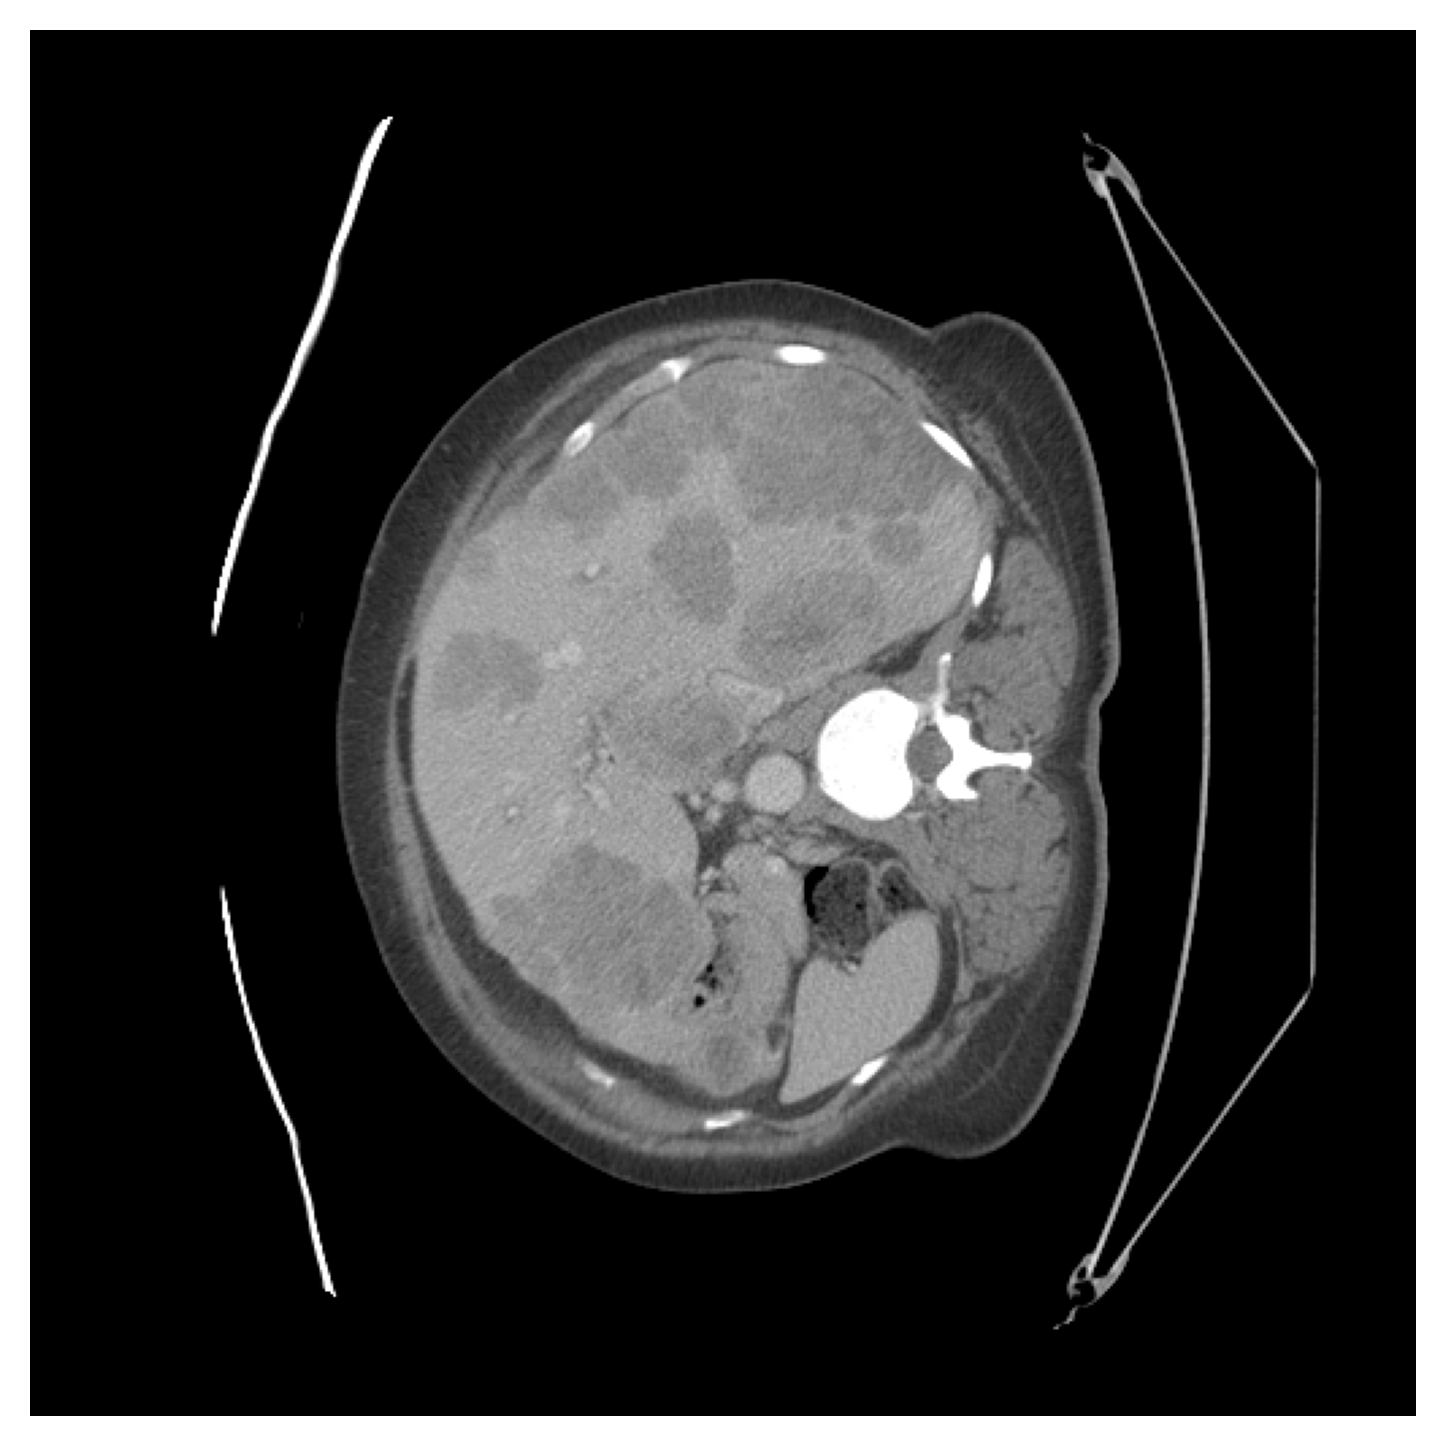
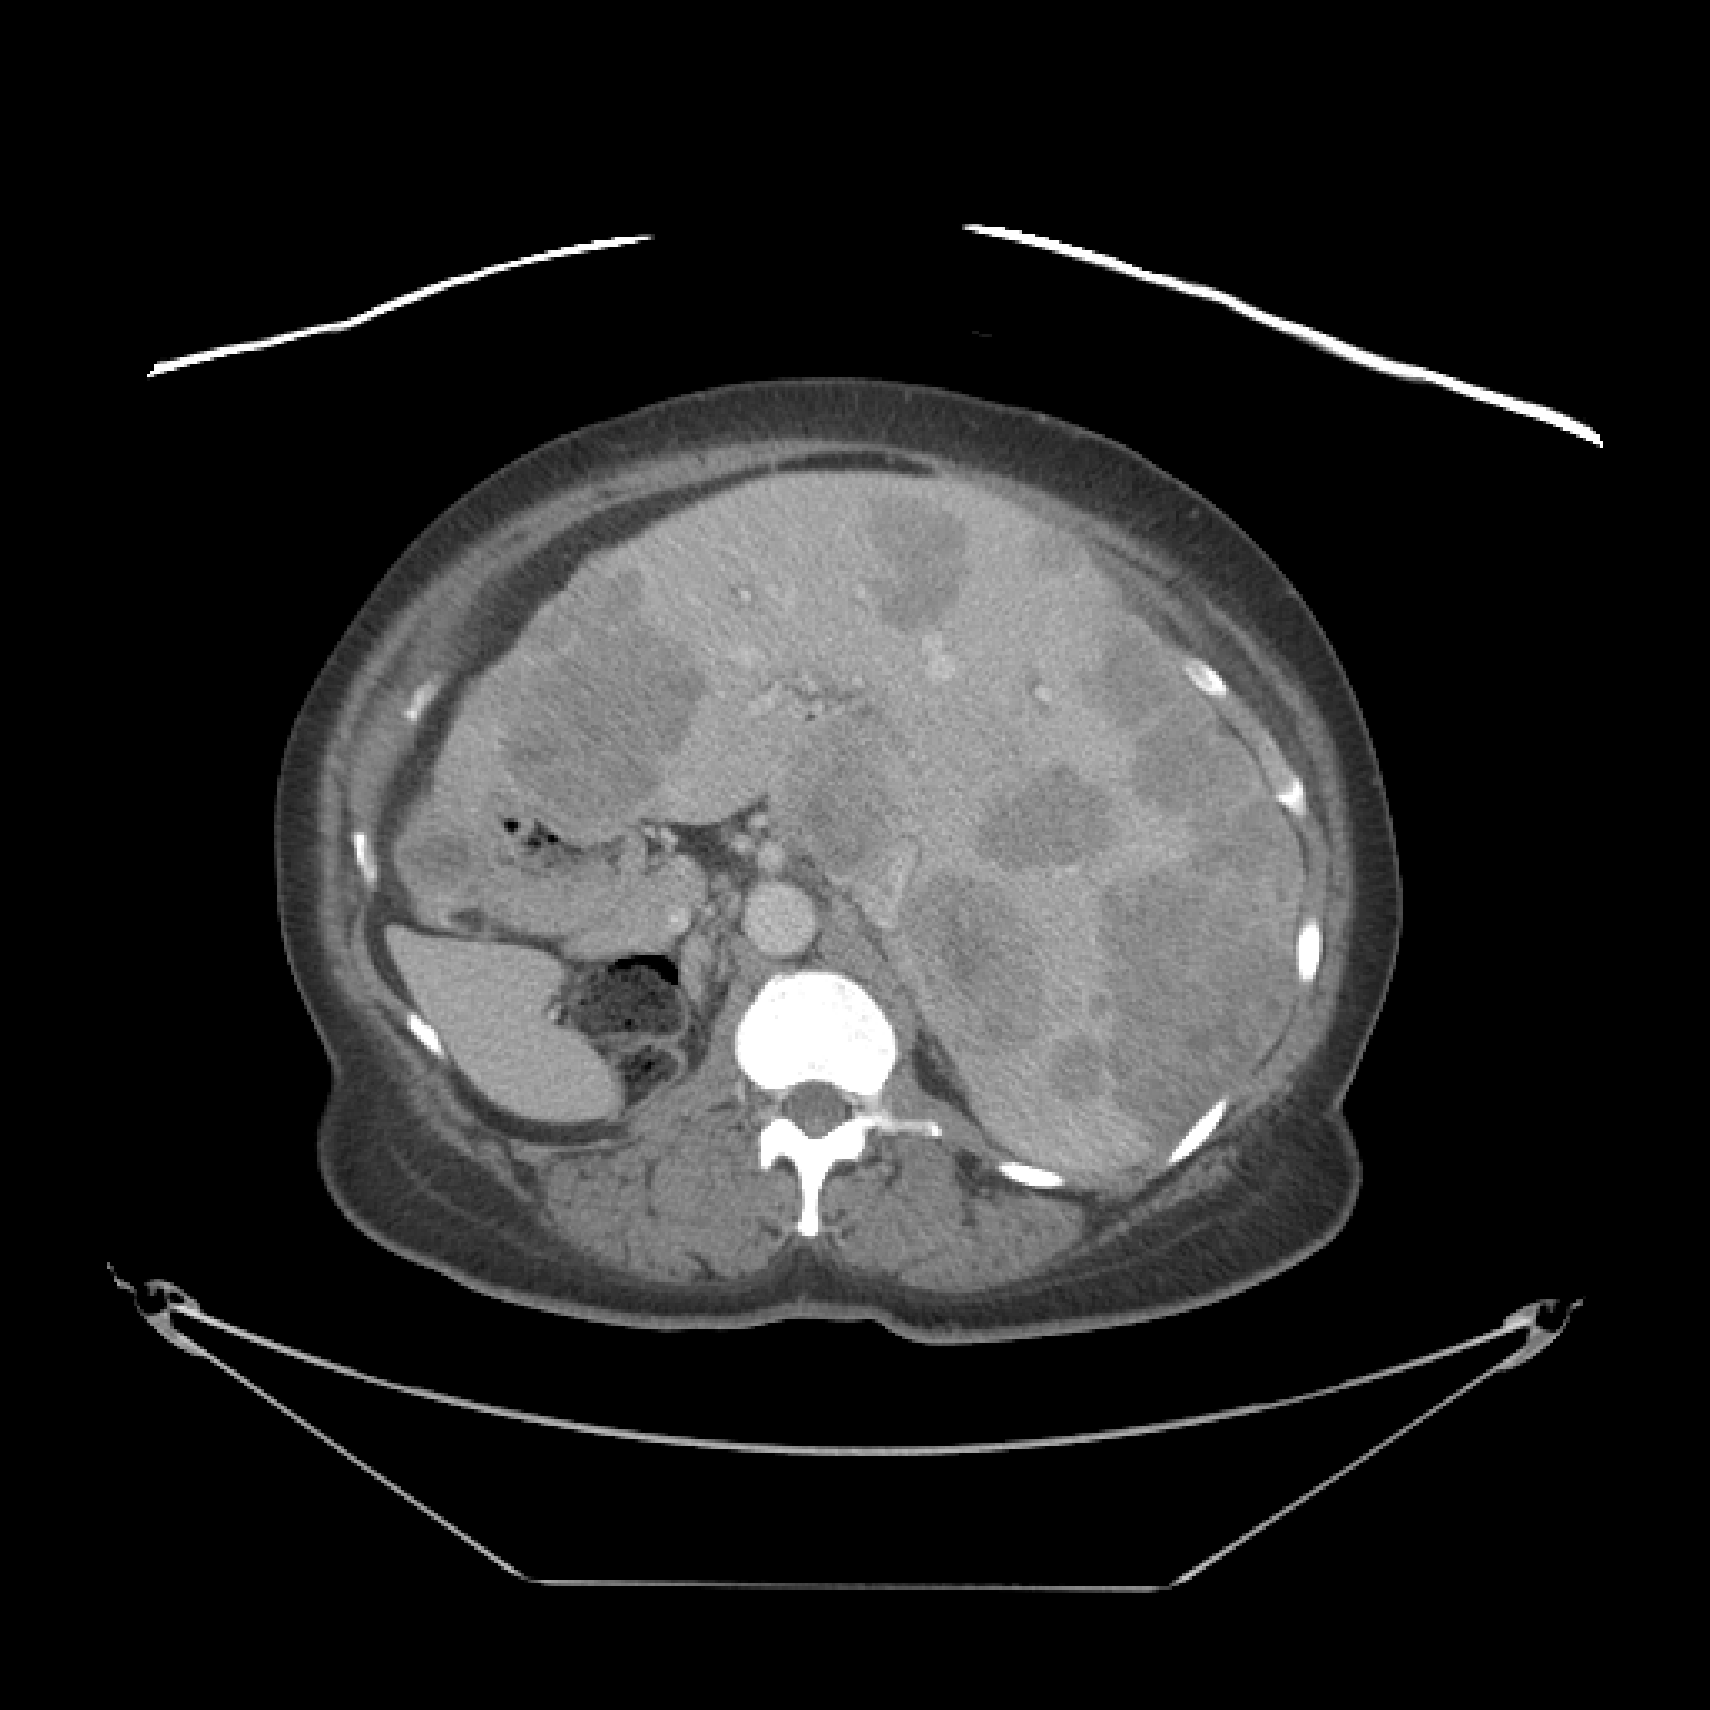
update readme demo

diff --git a/scripts/create_demo.py b/scripts/create_demo.py
@@ -9,64 +9,65 @@ mask_path = "./output_mask/RIA_17-010C_000_000070.nii.gz"
 output_dir = "demo"
 os.makedirs(output_dir, exist_ok=True)
 
-
-# Load images
 ct = nib.load(ct_path).get_fdata()
 mask = nib.load(mask_path).get_fdata()
 
-
-# Select middle axial slice
 slice_idx = ct.shape[2] // 2
 
 ct_slice = ct[:, :, slice_idx]
 mask_slice = mask[:, :, slice_idx]
 
+# ----------------------------
+# Orientation fix
+# ----------------------------
+ct_slice = np.rot90(ct_slice, k=-1)
+mask_slice = np.rot90(mask_slice, k=-1)
 
-# Normalize CT for visualization
+# ----------------------------
+# Normalize CT
+# ----------------------------
 ct_slice = np.clip(ct_slice, -200, 300)
-ct_slice = (ct_slice - ct_slice.min()) / (
-    ct_slice.max() - ct_slice.min()
-)
+ct_slice = (ct_slice - ct_slice.min()) / (ct_slice.max() - ct_slice.min() + 1e-8)
 
+# ----------------------------
+# Base RGB
+# ----------------------------
+rgb = np.stack([ct_slice]*3, axis=-1)
 
-# Save CT image
-plt.figure(figsize=(6,6))
-plt.imshow(ct_slice, cmap="gray")
+liver = mask_slice == 1
+tumor = mask_slice == 2
+
+# ----------------------------
+# Liver (soft green)
+# ----------------------------
+liver_color = np.array([0.0, 1.0, 0.0])
+liver_alpha = 0.20
+
+rgb[liver] = (1 - liver_alpha) * rgb[liver] + liver_alpha * liver_color
+
+# ----------------------------
+# Tumor (strong red on top)
+# ----------------------------
+tumor_color = np.array([1.0, 0.0, 0.0])
+tumor_alpha = 0.65
+
+rgb[tumor] = (1 - tumor_alpha) * rgb[tumor] + tumor_alpha * tumor_color
+
+# ----------------------------
+# Save
+# ----------------------------
+plt.figure(figsize=(6, 6))
+plt.imshow(rgb)
 plt.axis("off")
-plt.savefig(
-    f"{output_dir}/ct_slice.png",
-    bbox_inches="tight",
-    dpi=300
-)
-plt.close()
-
-
-# Save overlay
-plt.figure(figsize=(6,6))
-
-plt.imshow(ct_slice, cmap="gray")
-
-# liver label
-plt.imshow(
-    mask_slice == 1,
-    alpha=0.25
-)
-
-# tumor label
-plt.imshow(
-    mask_slice == 2,
-    alpha=0.6
-)
-
-plt.axis("off")
+plt.tight_layout()
 
 plt.savefig(
     f"{output_dir}/example_result.png",
+    dpi=300,
     bbox_inches="tight",
-    dpi=300
+    pad_inches=0
 )
 
 plt.close()
-
 
 print("Demo images generated in demo/")